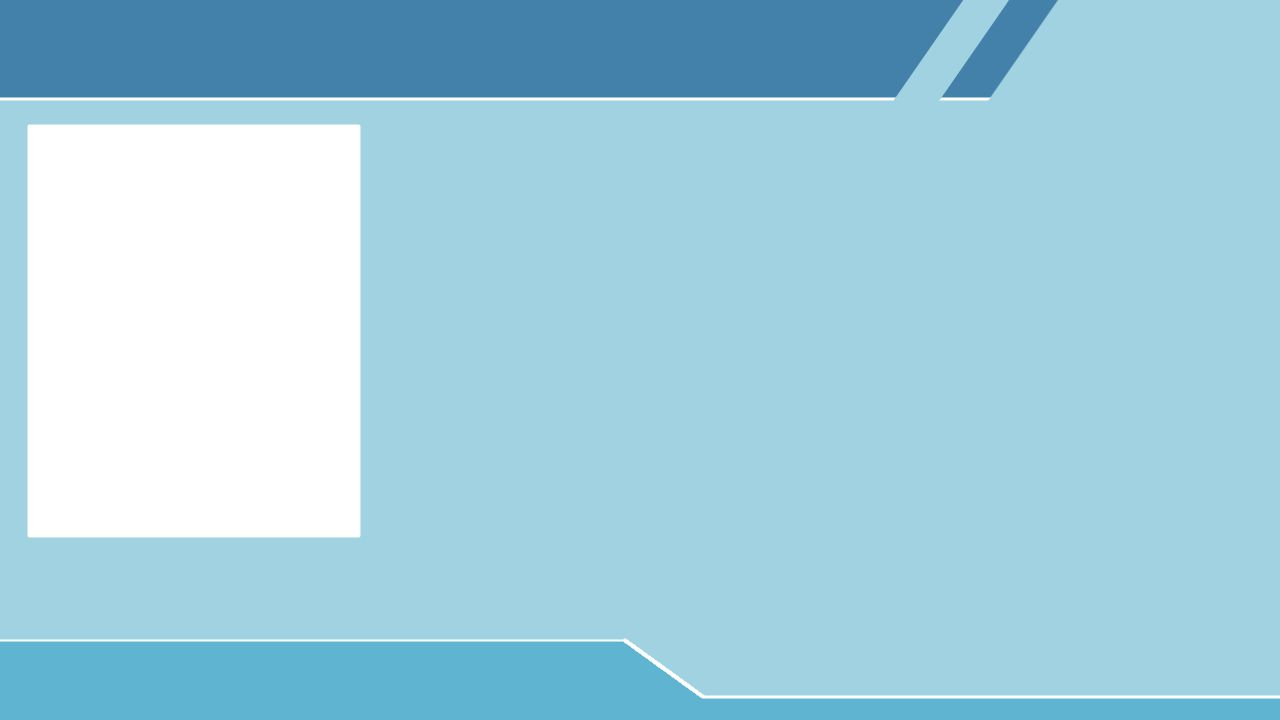
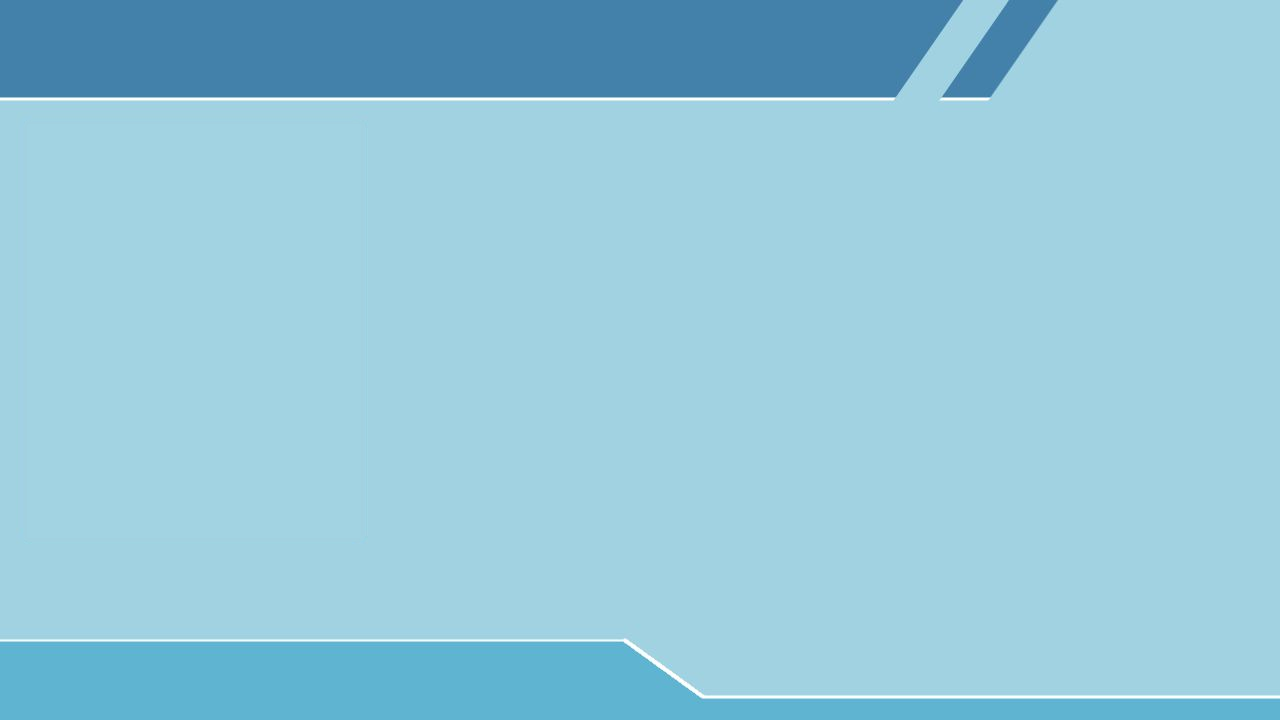
Front end edit pour la carte d'identité format PC

Changed region(s): [[0.0, 0.1528, 0.2812, 0.7639]]

diff --git a/DirtyBiologystan/src/main/resources/templates/realFlag/flag.html b/DirtyBiologystan/src/main/resources/templates/realFlag/flag.html
@@ -3,30 +3,37 @@
 <head>
 <meta charset="UTF-8">
 <script type="text/javascript"
-  src="https://cdn.skypack.dev/@hotwired/turbo"></script>
+	src="https://cdn.skypack.dev/@hotwired/turbo"></script>
 <link
-  href="https://cdn.jsdelivr.net/npm/bootstrap@5.1.3/dist/css/bootstrap.min.css"
-  rel="stylesheet"
-  integrity="sha384-1BmE4kWBq78iYhFldvKuhfTAU6auU8tT94WrHftjDbrCEXSU1oBoqyl2QvZ6jIW3"
-  crossorigin="anonymous">
-  <link rel="stylesheet" href="/css/flag.css">
+	href="https://cdn.jsdelivr.net/npm/bootstrap@5.1.3/dist/css/bootstrap.min.css"
+	rel="stylesheet"
+	integrity="sha384-1BmE4kWBq78iYhFldvKuhfTAU6auU8tT94WrHftjDbrCEXSU1oBoqyl2QvZ6jIW3"
+	crossorigin="anonymous">
+<link rel="stylesheet" href="/css/flag.css">
 <title>DirtyBiologistan - Drapeau État</title>
 </head>
 <body>
-  <header th:replace="~{header:: baseLayout()}"></header>
-  <p>[[${#lists.size(pixies)}]]</p>
-  <!-- ATTENTION : COLONE : LIGNE .-->
-  <table id="leDrapeau">
-  <tr th:each="ligne : ${pixies}">
-    <!-- <td th:text="${instance.key}">keyvalue</td> -->
-    <td th:each="pixel : ${ligne.value}" th:id="${pixel.value.colone}+':'+${pixel.value.ligne}" th:style="'background-color : '+${pixel.value.couleur}+';'"></td>
-  </tr>
-  <!--  <tr data-th-each="ligne : ${pixies}">
+	<header th:replace="~{header:: baseLayout()}"></header>
+	<p>[[${#lists.size(pixies)}]]</p>
+	<!-- ATTENTION : COLONE : LIGNE .-->
+	<table id="leDrapeau">
+		<tr th:each="ligne : ${pixies}">
+			<!-- <td th:text="${instance.key}">keyvalue</td> -->
+			<td th:each="pixel : ${ligne.value}"
+				th:id="${pixel.value.colone}+':'+${pixel.value.ligne}"
+				th:style="'background-color : '+${pixel.value.couleur}+';'"></td>
+		</tr>
+		<!--  <tr data-th-each="ligne : ${pixies}">
   	<td data-th-each="pixel,index : ${ligne}" th:id="${pixel.colone}+':'+${pixel.ligne}" th:style="'background-color : '+${pixel.couleur}+';'"></td>
   </tr>-->
-  </table>
-  <footer th:replace="~{footer:: baseLayout()}"></footer>
-  <script src="https://unpkg.com/vue@3.2.21/dist/vue.global.js"></script>
-  <script type="text/javascript" th:attr="src=${ressourceesDeploy +'/js/flag2.js'}"></script>
+	</table>
+	<canvas id="zoom" width="300" height="100">
+  Désolé, votre navigateur ne prend pas en charge &lt;canvas&gt;.
+	</canvas>
+
+	<footer th:replace="~{footer:: baseLayout()}"></footer>
+	<script src="https://unpkg.com/vue@3.2.21/dist/vue.global.js"></script>
+	<script type="text/javascript"
+		th:attr="src=${ressourceesDeploy +'/js/flag2.js'}"></script>
 </body>
 </html>

diff --git a/DirtyBiologystan/src/main/resources/templates/carteIdentiter.html b/DirtyBiologystan/src/main/resources/templates/carteIdentiter.html
@@ -24,23 +24,28 @@
 		<div id="frame2">
 			<table id="frontCard">
 				<tbody>
-					<tr>
-						<td id="RPDB" colspan="3">République Populaire du DirtyBiologistan</td>
+					<tr id="RPDB">
+						<td  colspan="3">République Populaire du DirtyBiologistan</td>
 					</tr>
-					<tr>
-						<td rowspan="4" id="photoCNI"><img th:attr="src=${ressourceesDeploy +'/img/PHOTOID.jpg'}"></td>
+					<tr id="photoCNI">
+						<td rowspan="4" ><img th:attr="src=${ressourceesDeploy +'/img/PHOTOID.jpg'}"></td>
 						<td id="CNI">Carte nationale d'identité</td>
 						<td id="Nationaliter" th:if="${people.isDirtybiologistanais()}">Nationalité&nbsp:&nbspDirtybiologistanaise</td>
 					</tr>
-					<tr>
-						<td id="Pseudo">Pseudo : [[${people.username}]]</td>
+					<tr id="Pseudo">
+						<td >Pseudo : [[${people.username}]]</td>
 					</tr>
-					<tr>
+					<tr id="prenomNom">
 						<td id="Prenom">Prénom : [[${people.firstname}]]</td>
 						<td id="Nom">Nom : [[${people.name}]]</td>
 					</tr>
-					<tr>
-						<td id="Position">Position pixel : [[${people.colone}]]:[[${people.ligne}]]</td>
+					<tr id="Position">
+						<td>Position pixel : [[${people.colone}]]:[[${people.ligne}]]</td>
+					</tr>
+					<tr id="bottomCardFront">
+						<td></td>
+						<td></td>
+						<td></td>
 					</tr>
 				</tbody>
 			</table>

diff --git a/DirtyBiologystan/src/main/resources/static/css/carteIdentiter.css b/DirtyBiologystan/src/main/resources/static/css/carteIdentiter.css
@@ -1,5 +1,14 @@
 @charset "UTF-8";
 
+@media print {
+	header, footer {
+		display: none;
+	}
+	@page {
+		size: A4 landscape;		
+	}
+}
+
 #frontCard {
 	background-image: url("/img/backgroundIDCard.png");
 	background-size: contain;
@@ -7,40 +16,41 @@
 	width: 1280px;
 }
 
-#frontCard tr {
-	width: 100%;
-	height: 100px;
+#frontCard td {
+	font-size: 30px;
+	color: #000;
 }
 
 #RPDB {
-	font-size: 40px;
-	/*width: 100%;
-	height: 100px;*/
-	padding-left: 35px;
+	height: 13%;
 }
 
-#photoCNI {
-	/*padding-left: 28px;
-	padding-top: 23px;
-	width: 340px;*/
+#RPDB td {
+	font-size: 40px;
+	padding-left: 35px;
+	color: #FFF;
+}
+
+#photoCNI td:first-child {
+	width: 31%;
+	padding-left: 2%;
+	padding-top: 2%;
+	padding-right: 5%;
+	padding-bottom: 5%;
+}
+
+#bottomCardFront {
+	height: 12%;
 }
 
 #photoCNI img {
-	background-size: contain;
 	width: 100%;
-	height: 100%;
 }
 
 #CNI {
-	font-size: 25px;
-	/*width: 50%;
-	height: 30px;*/
-	padding-left: 35px;
+	
 }
 
 #Nationaliter {
-	font-size: 25px;
-	/*width: 50%;
-	height: 30px;*/
-	padding-left: 35px;
+	
 }

diff --git a/DirtyBiologystan/src/main/resources/static/js/flag2.js b/DirtyBiologystan/src/main/resources/static/js/flag2.js
@@ -10,6 +10,14 @@ let app = Vue.createApp({
 		up: 0
 	}),
 	mounted: async function() {
+		/* fonction pour zoomer sur le drapeau */
+		
+		let canvas = document.getElementById('zoom');
+		let ctx = canvas.getContext('2d');
+		ctx.fillStyle = 'green';
+		ctx.fillRect(10, 10, 100, 100);
+		ctx.fillStyle = 'red';
+		ctx.fillRect(10, 20, 100, 100);
 		/*
 		Non utilisée, a été dev avant que j'ai fini'
 		Import de l'image : https://codati.ovh
@@ -61,7 +69,19 @@ let app = Vue.createApp({
 			</td>
 		</tr>
 	</table>-->
-	`
+	`,
+	methods: {
+		mouse_position: function(){
+		    var e = window.event;
+		
+		    var posX = e.clientX;
+		    var posY = e.clientY;
+		
+		    var t = setTimeout(mouse_position,100);
+		}
+		
+	}
+	
 });
 
 
